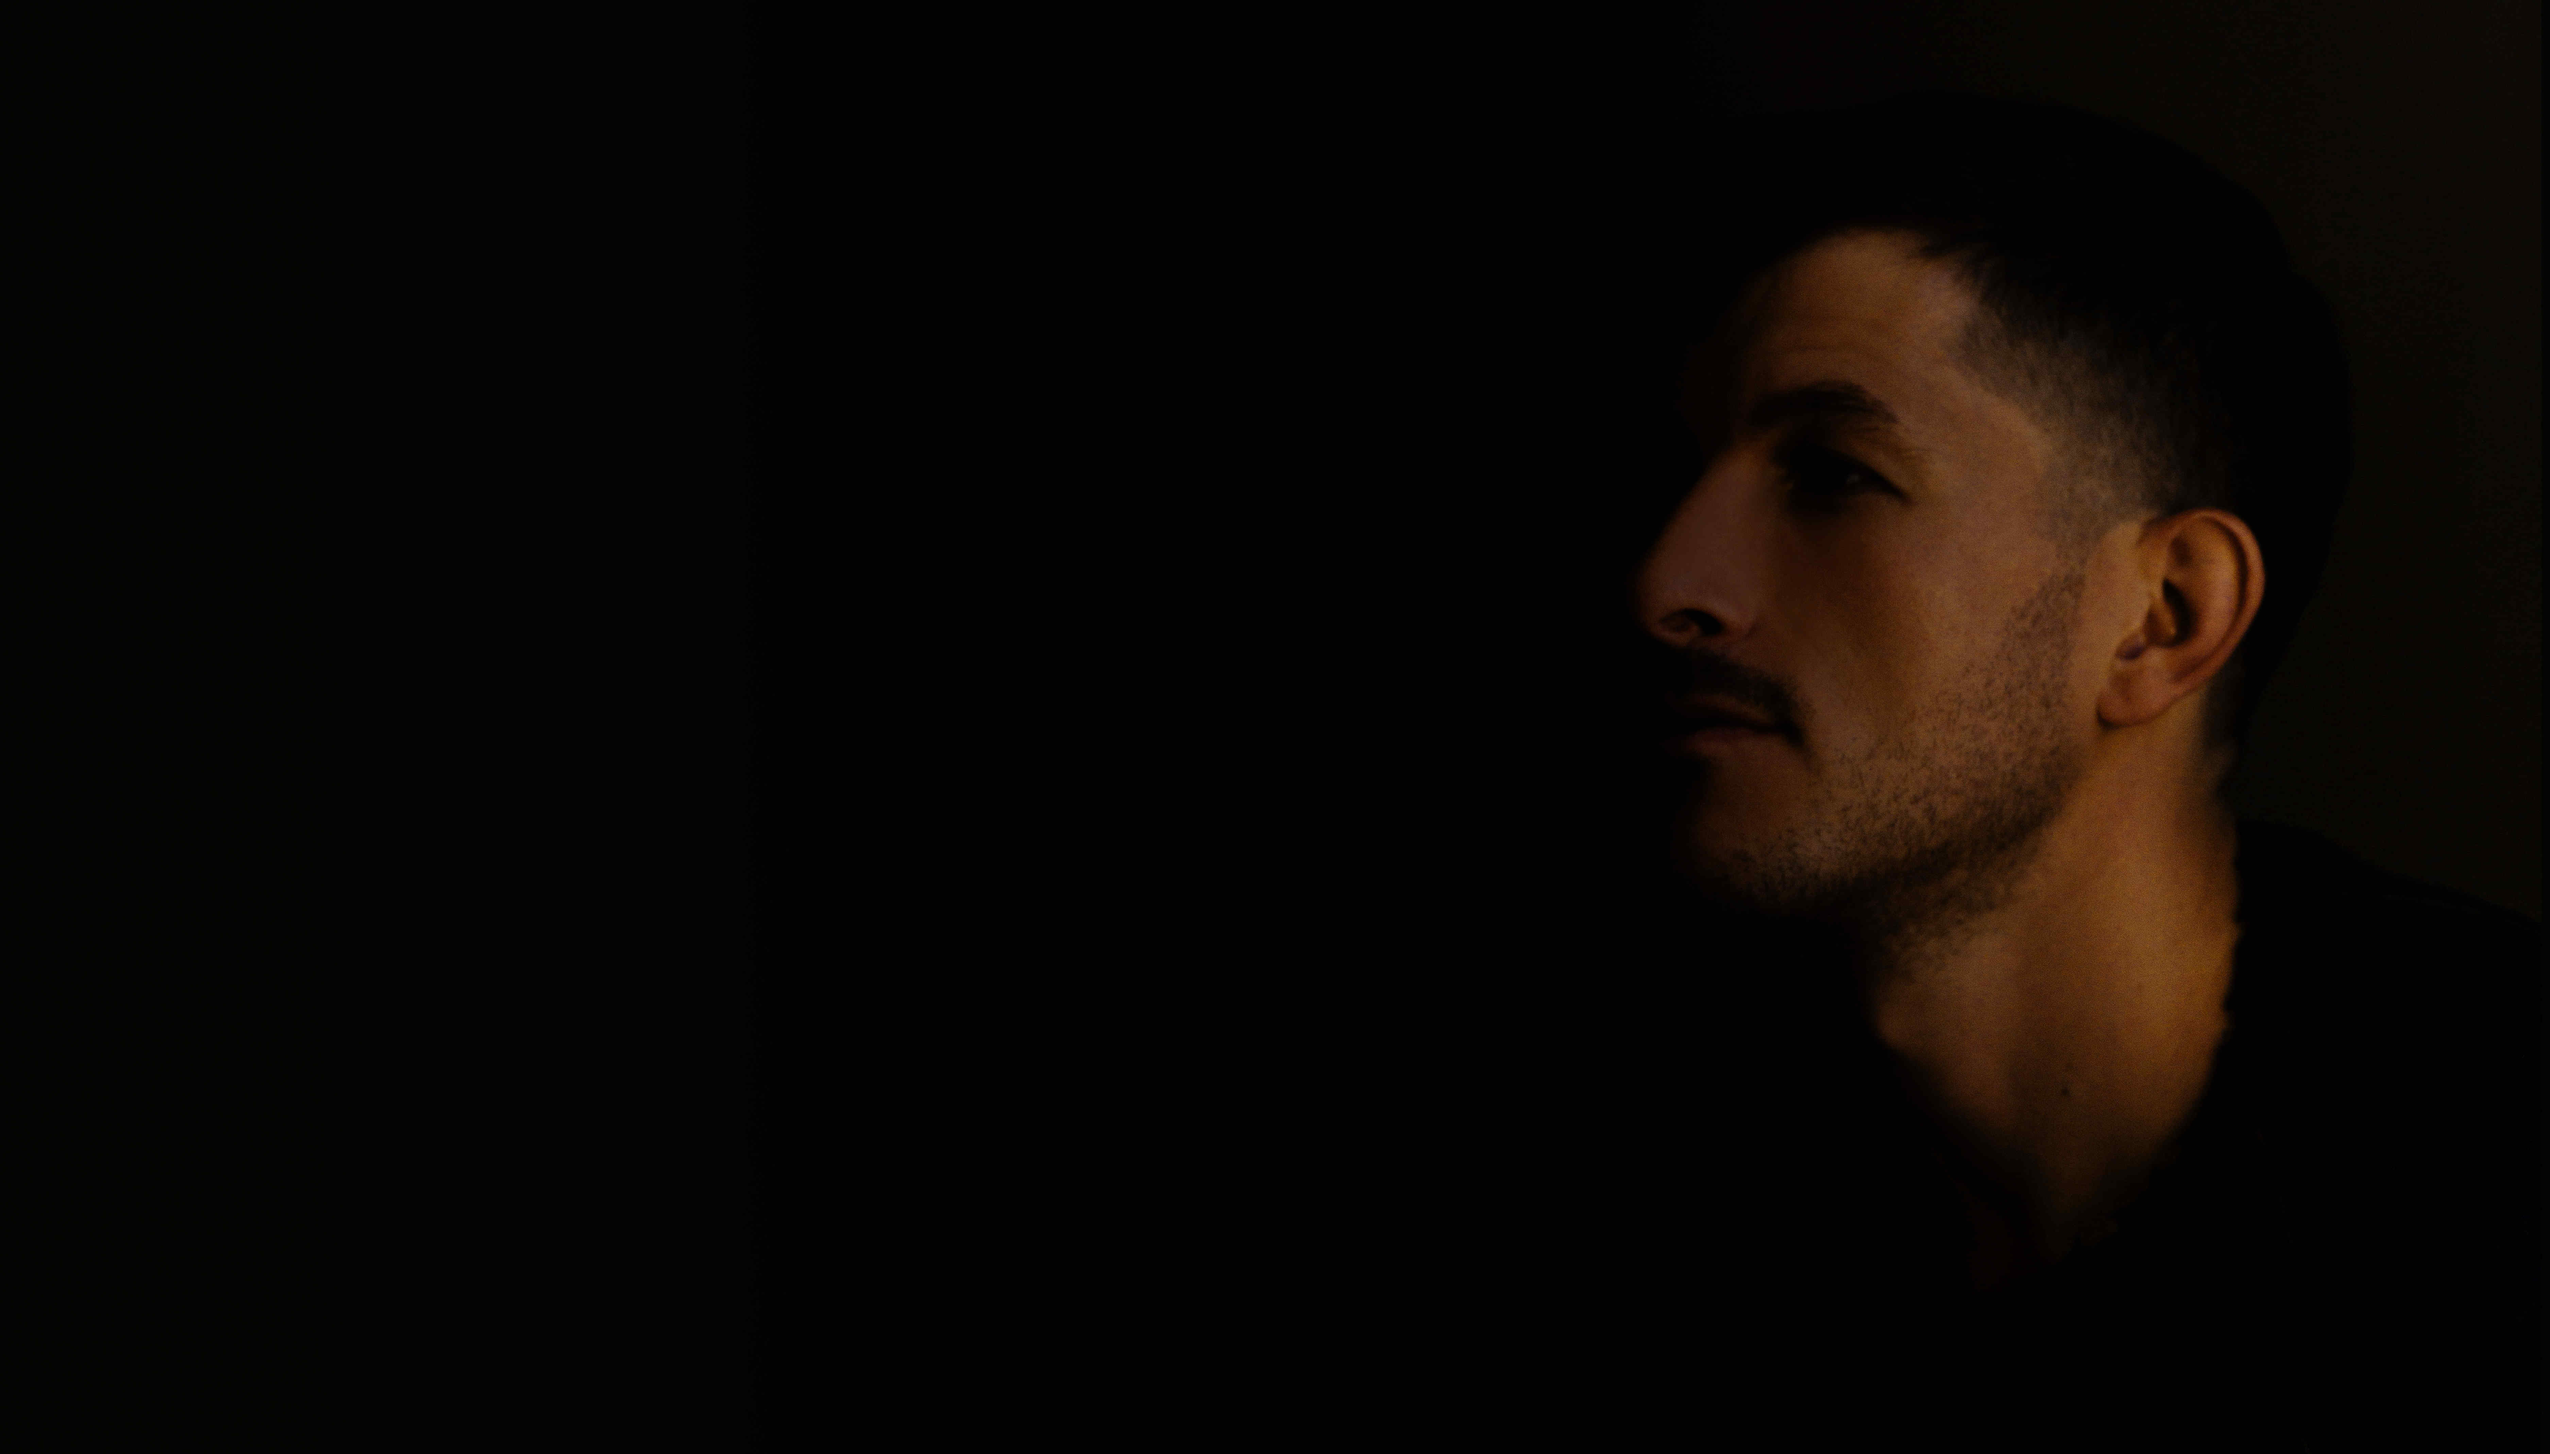
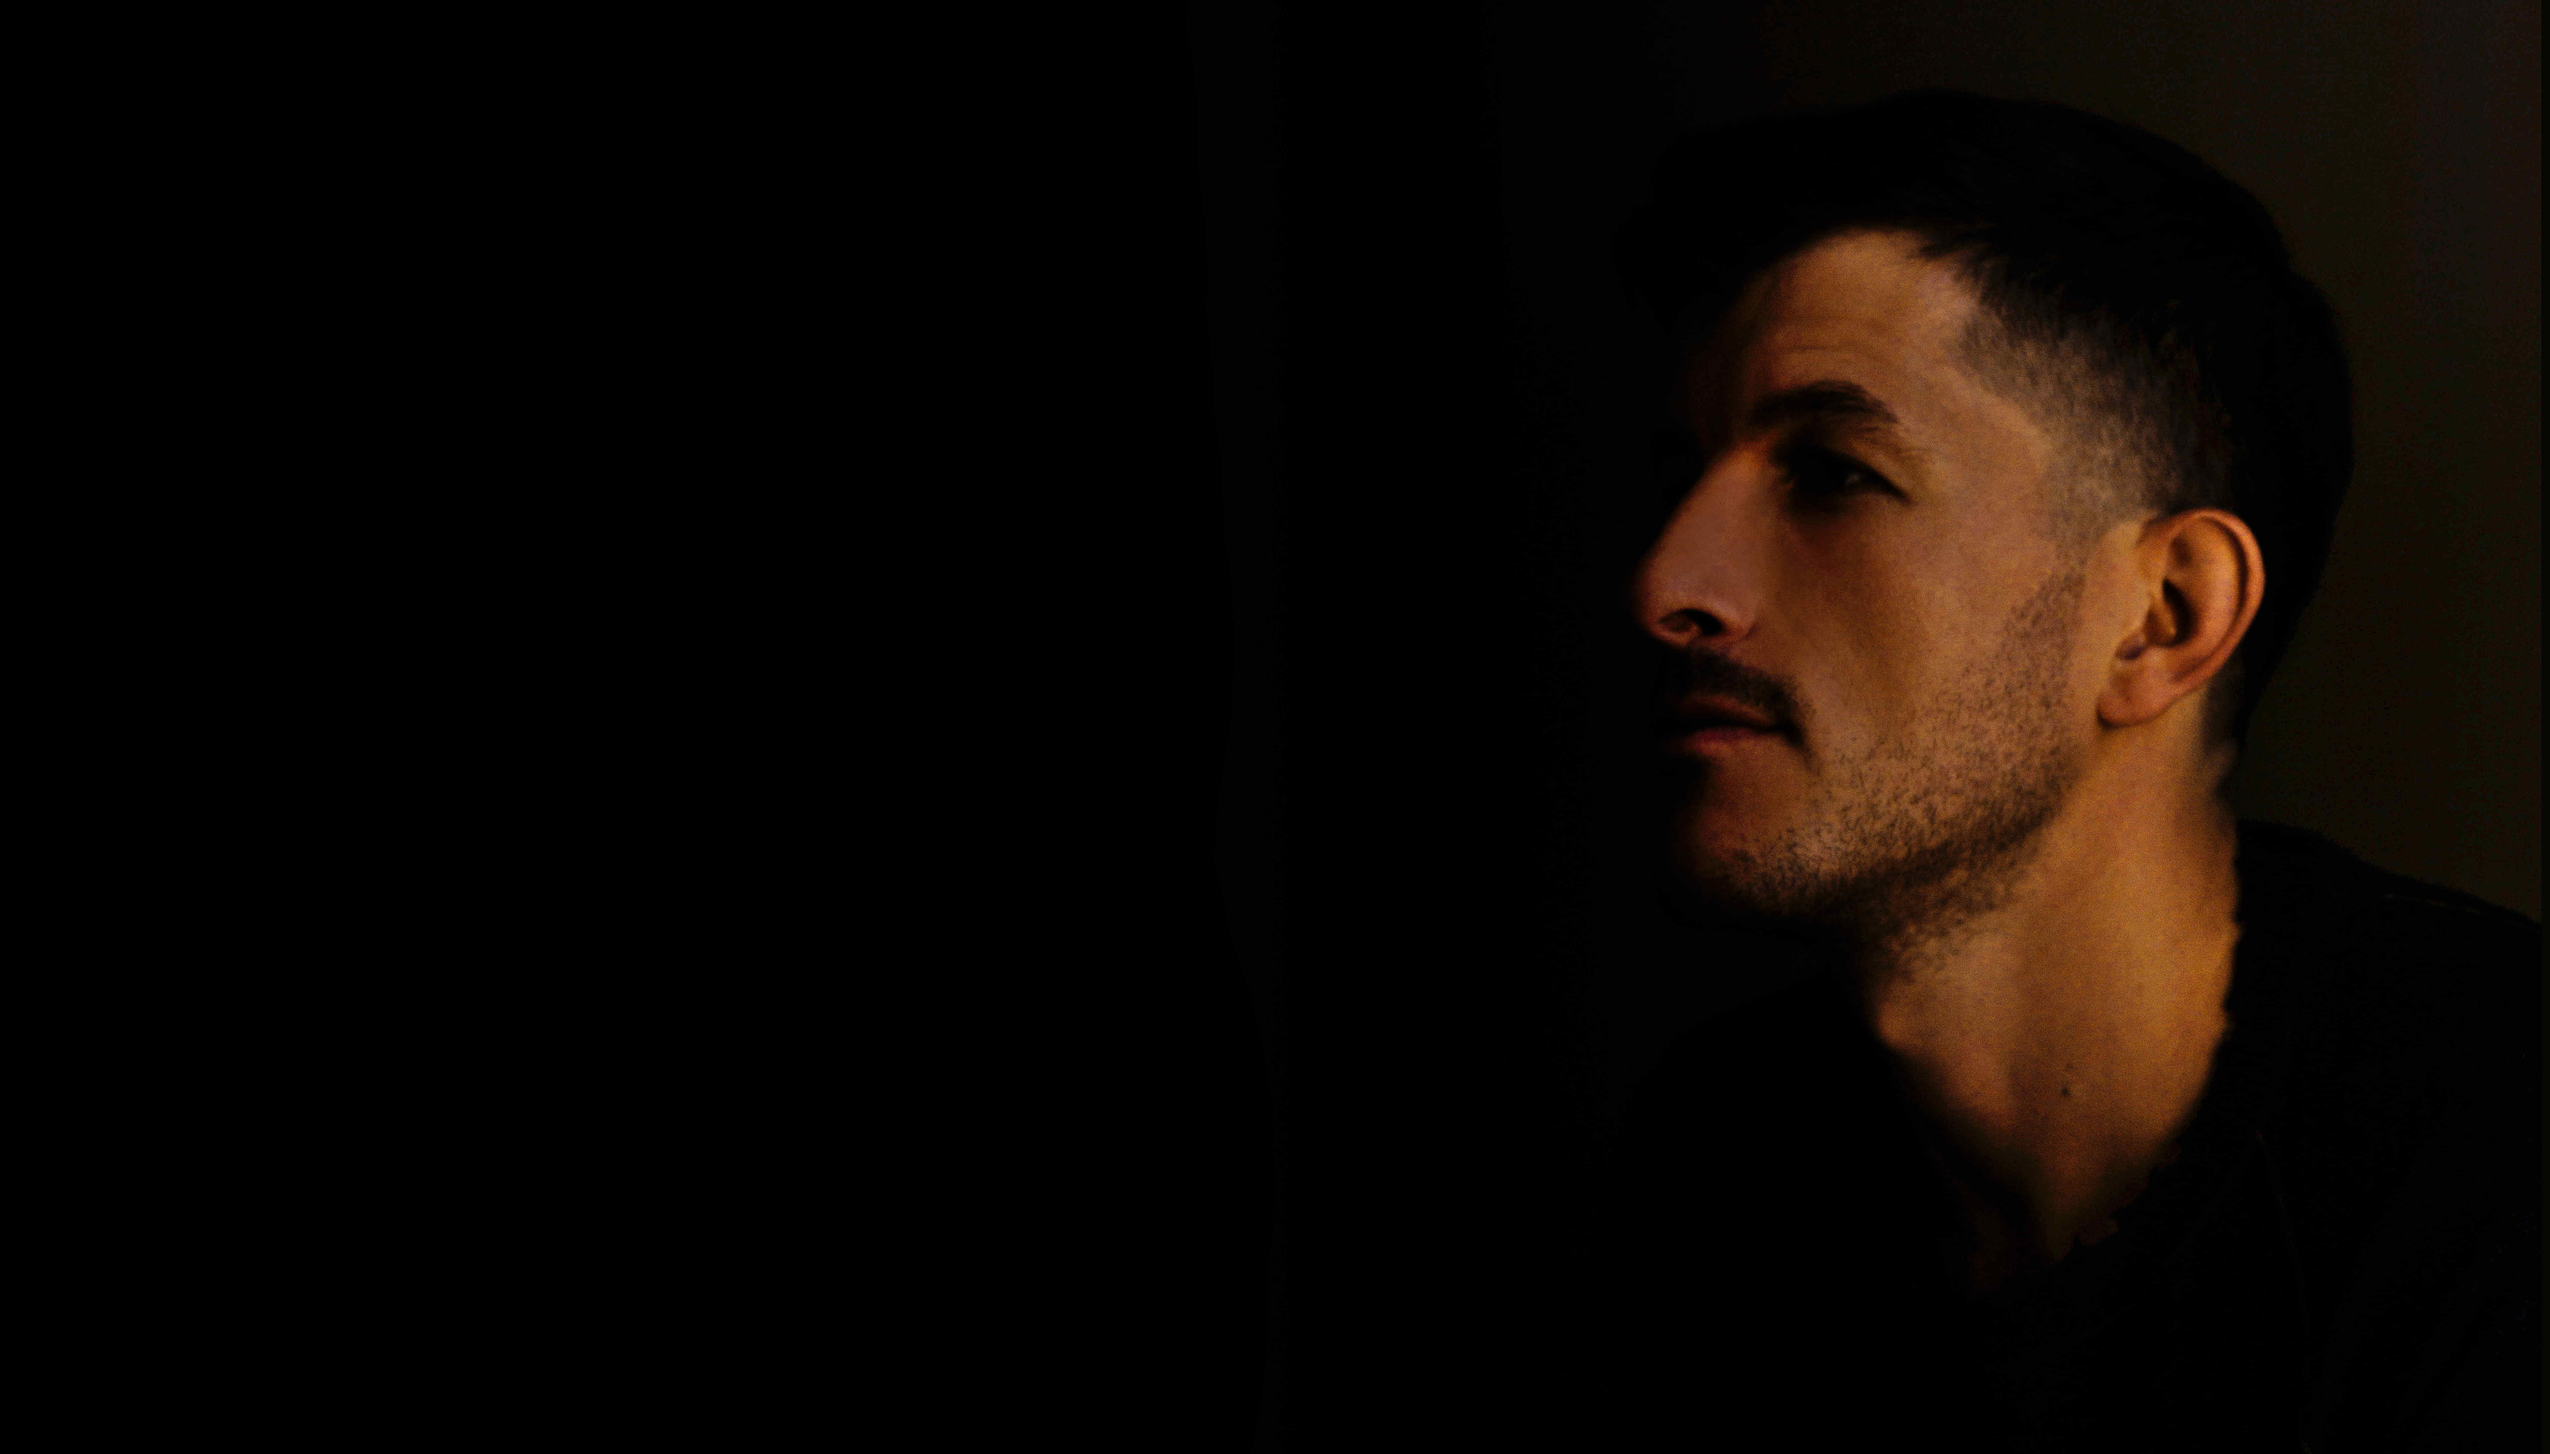
Brightened image, adding email JS

Changed region(s): [[0.624, 0.1555, 0.9048, 0.8085]]

diff --git a/index.html b/index.html
@@ -5,6 +5,7 @@
       <meta name="viewport" content="width=device-width, initial-scale=1.0">
       <meta http-equiv="X-UA-Compatible" content="ie=edge">
       <link rel="stylesheet" type="text/css" href="index.css">
+      <script src="https://smtpjs.com/v3/smtp.js"></script>
       <script type="text/javascript" src="index.js"></script>
       <link href="https://fonts.googleapis.com/css?family=Akronim|Lobster+Two|Kumar+One|Yatra+One|Bungee+Shade|Cabin+Sketch|Londrina+Outline|Raleway" rel="stylesheet">
       <title>Hey, Hey, Andy K!</title>
@@ -152,10 +153,10 @@
           </div> -->
         <div id="modal">
           <label>Name:</label>
-          <input type="text" />
+          <input id="sender" type="text" />
           <br />
           <label>Email:</label>
-          <input type="email" />
+          <input id="email" type="email" />
           <br />
           <label>Message:</label>
           <textarea id="message" type="text" /></textarea>

diff --git a/index.js b/index.js
@@ -247,8 +247,21 @@ document.addEventListener('DOMContentLoaded', (event) => {
     setTimeout(() => modal.style.zIndex = -1, 500)
   }
 
+  function sendEmail(){
+    Email.send({
+      SecureToken : "00e827cb-99e1-4173-9d0a-8b417588bfa9",
+      To : 'chrismhmm@gmail.com',
+      From : email.value,
+      Subject : `A Message From ${sender.value}`,
+      Body : message.value
+    })
+    .then(console.log)
+    .then(hideModal);
+  }
+
   mail.addEventListener("click", showModal)
   closemodal.addEventListener("click", hideModal)
+  send.addEventListener("click", sendEmail)
 
   function showArrow(){
     setTimeout(() => {

diff --git a/index.css b/index.css
@@ -21,7 +21,7 @@ body, html{
     overflow: hidden;
   }
 
-#mail:hover{
+#mail:hover, #send:hover, #closemodal:hover, #send:hover{
   cursor: pointer;
 }
 
@@ -457,8 +457,4 @@ textarea::-webkit-scrollbar-thumb {
   font-size: 2em;
   top: 5px;
   right: 15px;
-}
-
-#closemodal:hover {
-  cursor: pointer;
 }
